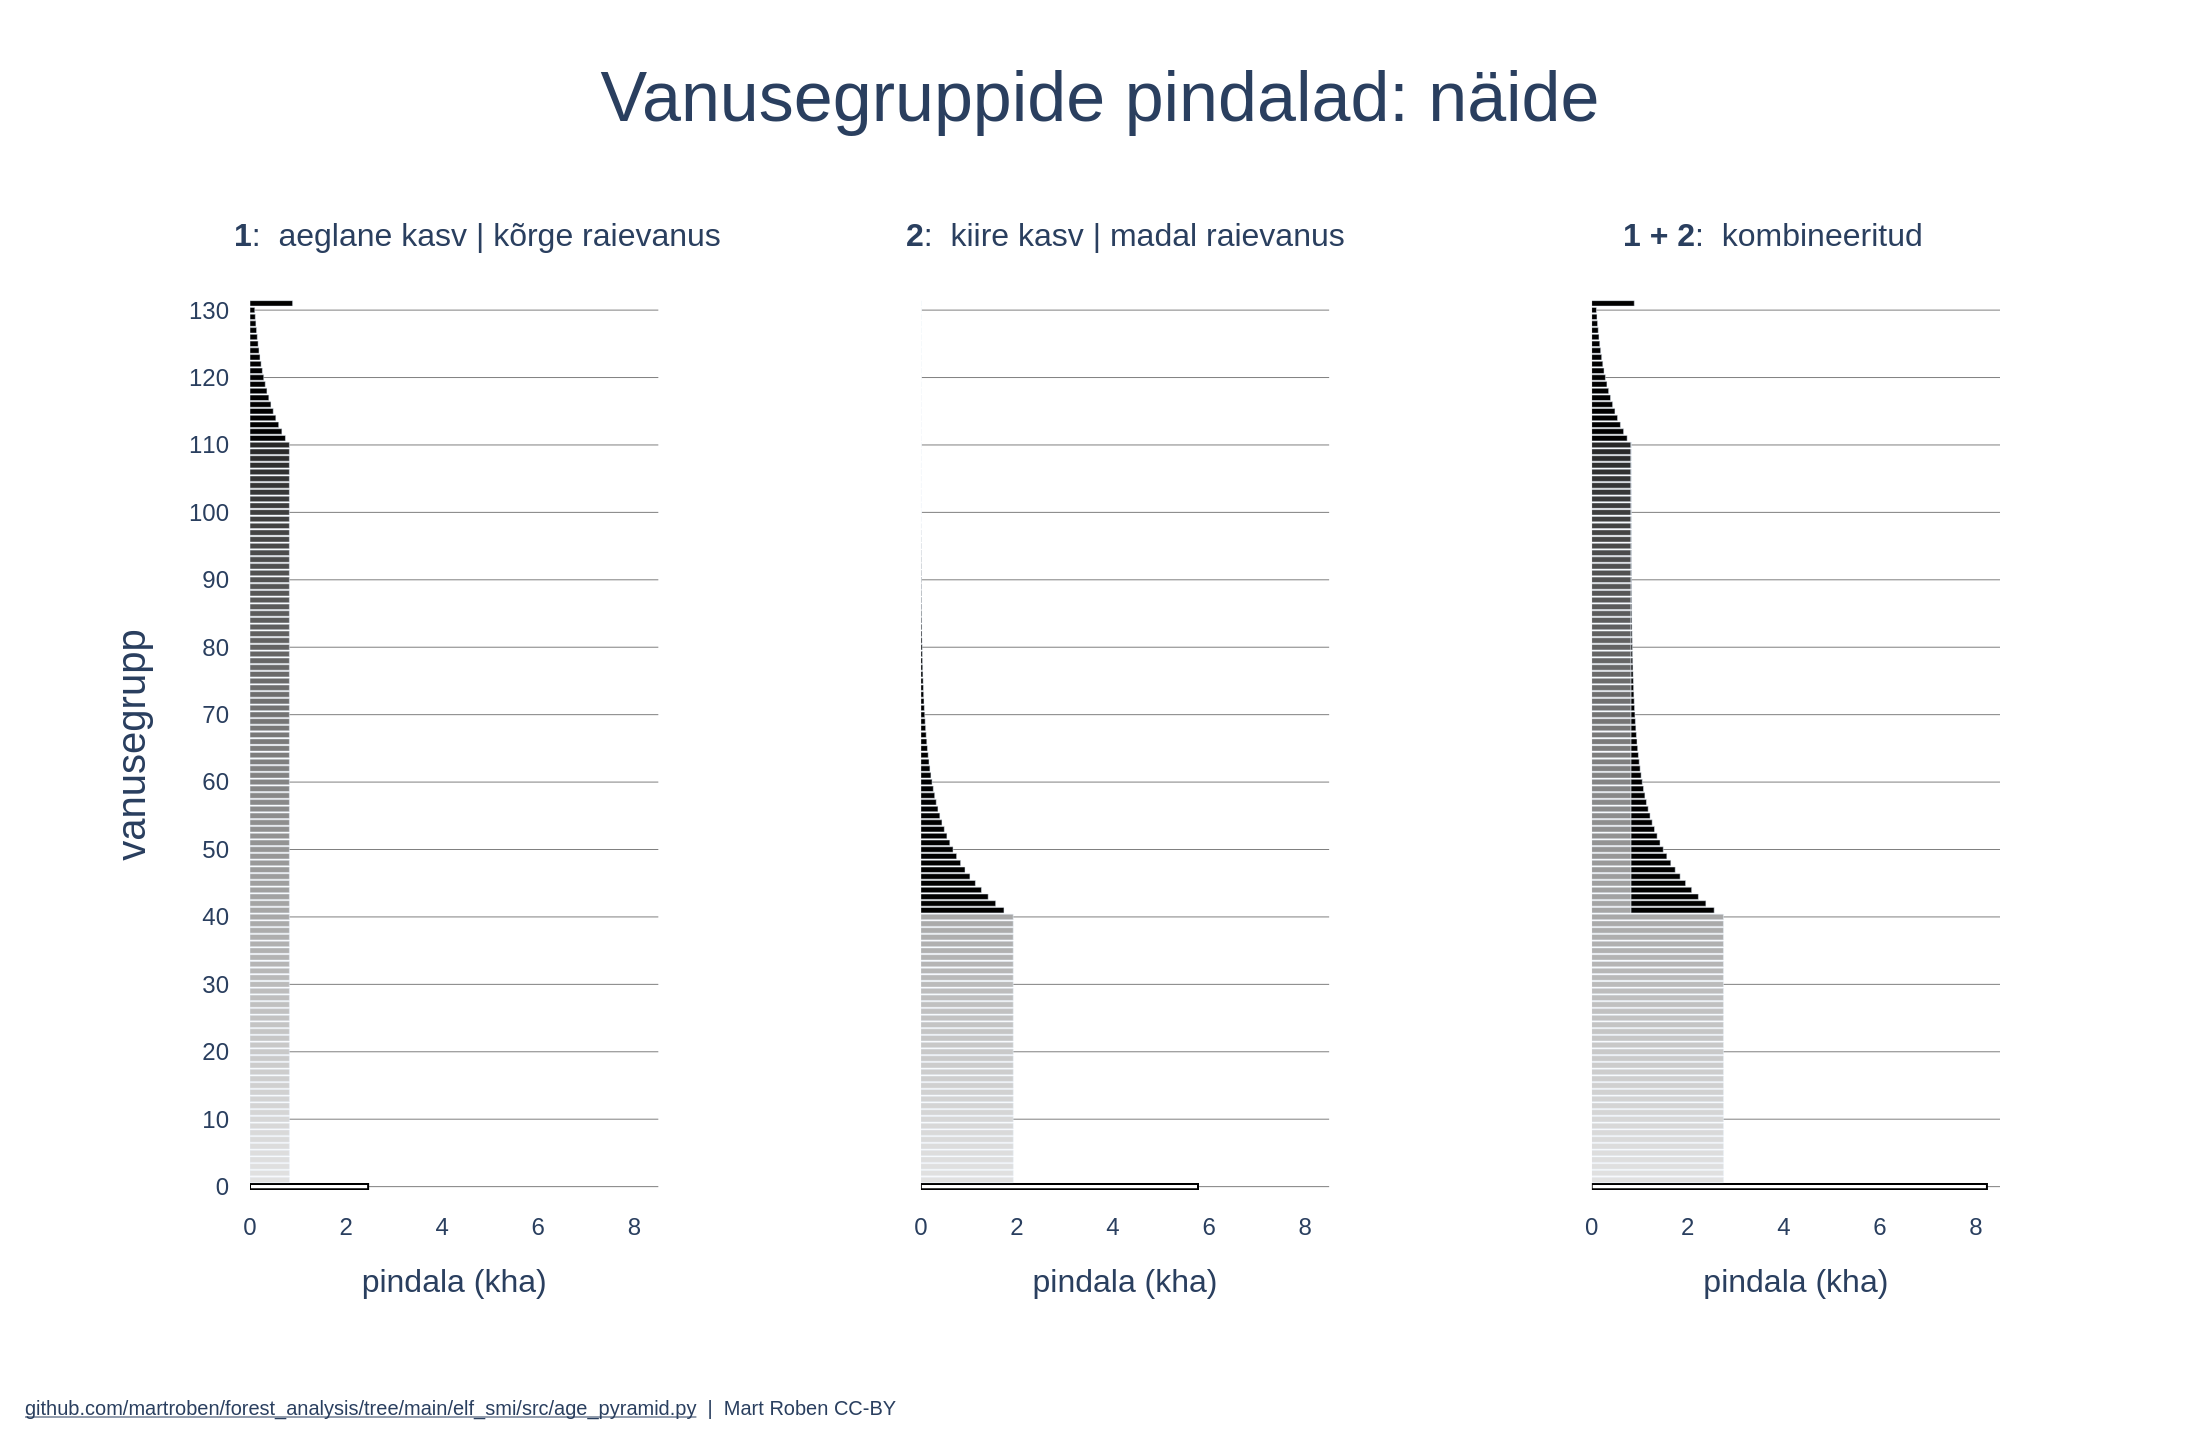
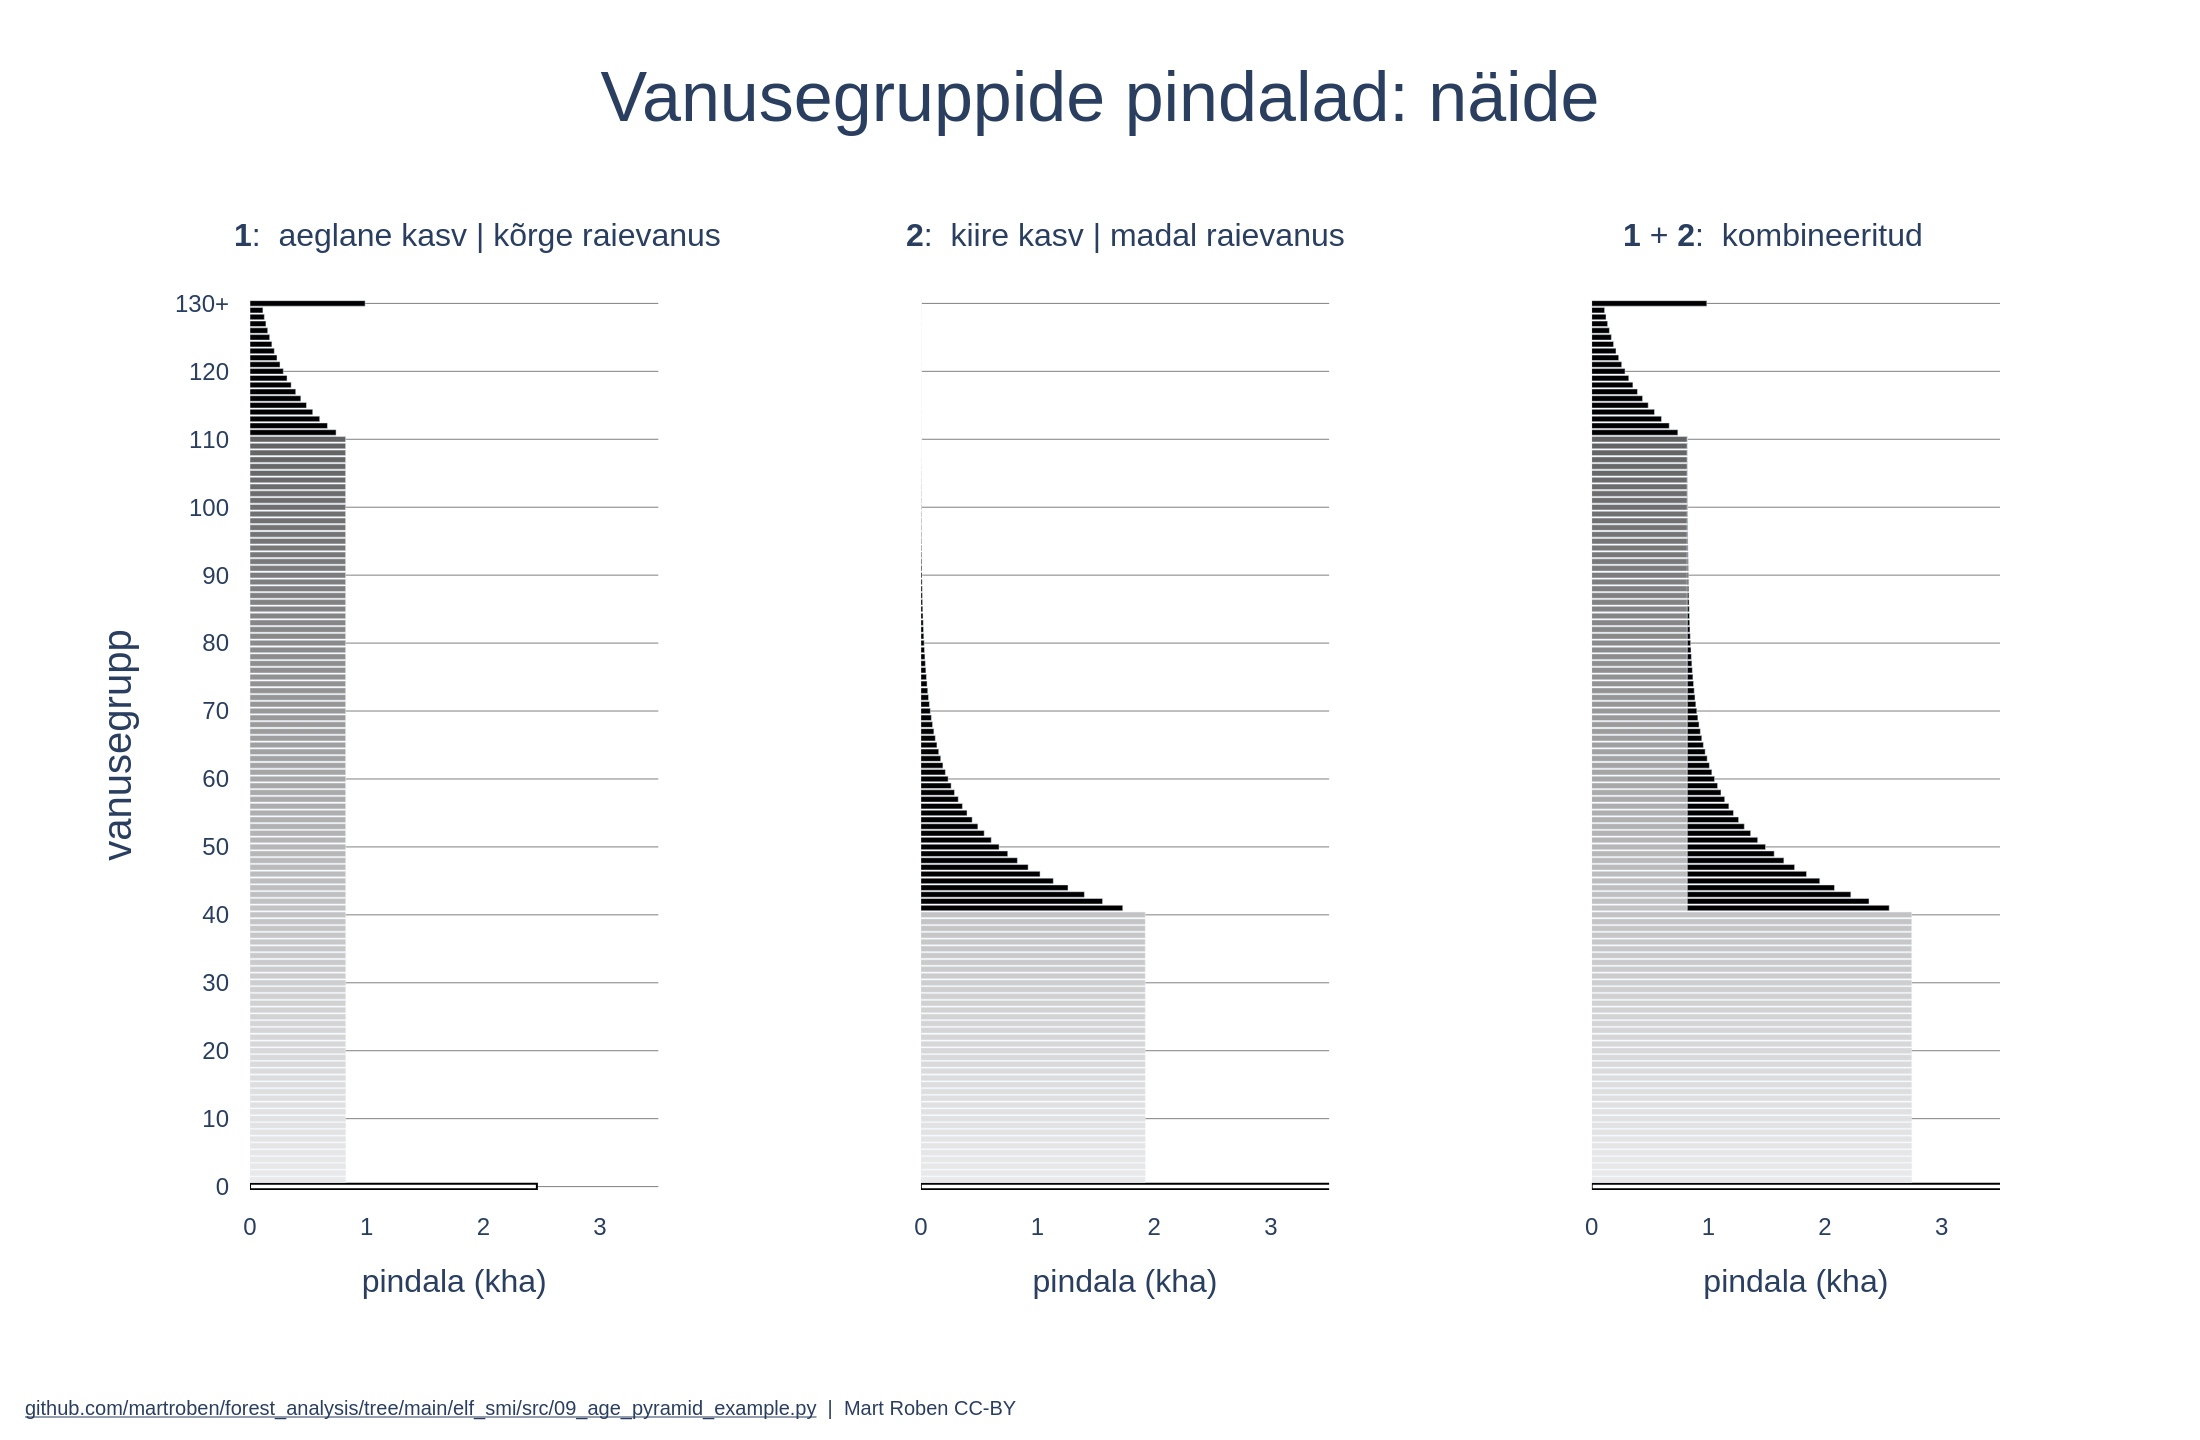
Minor improvements

diff --git a/elf_smi/src/09_age_pyramid_example.py b/elf_smi/src/09_age_pyramid_example.py
@@ -9,7 +9,8 @@ import polars as pl
 from polars import col
 # local
 ROOT_DIR_PATH = Path("elf_smi")
-src_path = ROOT_DIR_PATH / "elf_smi" / "src"
+
+src_path = ROOT_DIR_PATH / "src"
 if str(src_path) not in sys.path:
     sys.path.insert(0, str(src_path))
 
@@ -27,16 +28,19 @@ X_AXIS_TITLE = "pindala (kha)"
 Y_AXIS_TITLE = "vanusegrupp"
 SUBPLOT1_TITLE = "<b>1</b>:  aeglane kasv | kõrge raievanus"
 SUBPLOT2_TITLE = "<b>2</b>:  kiire kasv | madal raievanus"
-SUBPLOT3_TITLE = "<b>1 + 2</b>:  kombineeritud"
+SUBPLOT3_TITLE = "<b>1</b> + <b>2</b>:  kombineeritud"
 ANNOTATIONS = "<u>github.com/martroben/forest_analysis/tree/main/elf_smi/src/09_age_pyramid_example.py</u>  |  Mart Roben CC-BY"
 
 # Proportion of the remaining mature forest cut every year
 STANDARD_ANNUAL_MATURE_CUT_PROPORTION = 0.1
 # Average time between regeneration cutting and having a 1 year old forest
 STANDARD_RENEWAL_DELAY_YEARS = 3
+# X-axis range (same for all subplots)
+X_RANGE = (0, 3.5)
+# Age group aggregations (min, max): name
 AGE_GROUP_MAP = {
-    # Age group aggregations (min, max): name
-    (131, float("inf")):    "131..."
+    # Aggregate maximum age group (also sets y max)
+    (130, float("inf")):    "130+"
 }
 
 COLORSCALE = "Greys"
@@ -183,7 +187,12 @@ data1 = (
     .agg(
         AREA=col("AREA").sum(),
         UNIT=col("UNIT").first(),
-        SORTING_KEY=col("AGE").first()
+        SORTING_KEY=(
+            col("AGE_GROUP")
+            .str.split("...").list.get(0)
+            .str.split("+").list.get(0)
+            .cast(pl.Int16)
+        )
     )
     .sort(col("SORTING_KEY"))
     .drop(col("SORTING_KEY"))
@@ -210,7 +219,12 @@ data2 = (
     .agg(
         AREA=col("AREA").sum(),
         UNIT=col("UNIT").first(),
-        SORTING_KEY=col("AGE").first()
+        SORTING_KEY=(
+            col("AGE_GROUP")
+            .str.split("...").list.get(0)
+            .str.split("+").list.get(0)
+            .cast(pl.Int16)
+        )
     )
     .sort(col("SORTING_KEY"))
     .drop(col("SORTING_KEY"))
@@ -227,7 +241,12 @@ data3 = (
     .agg(
         AREA=col("AREA").sum(),
         UNIT=col("UNIT").first(),
-        SORTING_KEY=col("AGE_GROUP").str.split("...").list.get(0).cast(pl.Int16)
+        SORTING_KEY=(
+            col("AGE_GROUP")
+            .str.split("...").list.get(0)
+            .str.split("+").list.get(0)
+            .cast(pl.Int16)
+        )
     )
     .sort(col("SORTING_KEY"))
     .drop(col("SORTING_KEY"))
@@ -240,8 +259,10 @@ data3 = (
 
 # Offset starting colours towards darker for better contrast on plot
 offset_to_darker = len(set(age_group_map.values())) // 4
+# Create a divide between non mature age groups and mature age group colour
+max_age_offset = len(set(age_group_map.values())) // 3
 colours = plot.get_colours(
-    n=len(set(age_group_map.values())) + offset_to_darker,
+    n=len(set(age_group_map.values())) + offset_to_darker + max_age_offset,
     scale_name=COLORSCALE
 )
 colours = colours[offset_to_darker:]
@@ -437,8 +458,8 @@ figure = figure.update_layout(
         },
         "tickfont": {"size": 24},
         "range": [
-            0,
-            8.5
+            min(X_RANGE),
+            max(X_RANGE)
         ]
     },
     xaxis2={
@@ -449,8 +470,8 @@ figure = figure.update_layout(
         },
         "tickfont": {"size": 24},
         "range": [
-            0,
-            8.5
+            min(X_RANGE),
+            max(X_RANGE)
         ]
     },
     xaxis3={
@@ -461,8 +482,8 @@ figure = figure.update_layout(
         },
         "tickfont": {"size": 24},
         "range": [
-            0,
-            8.5
+            min(X_RANGE),
+            max(X_RANGE)
         ]
     },
     yaxis1={
